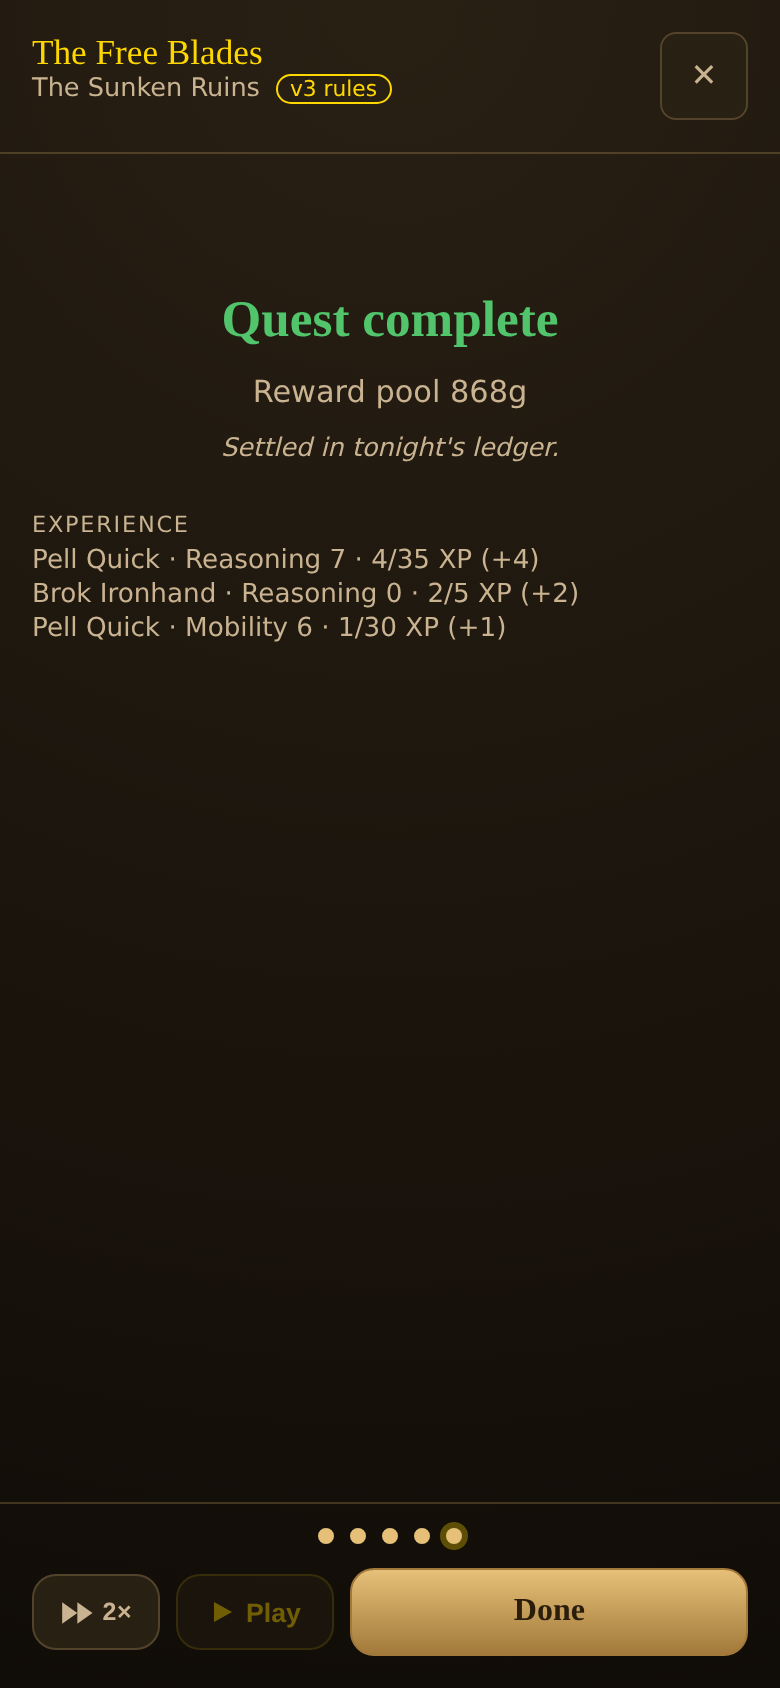
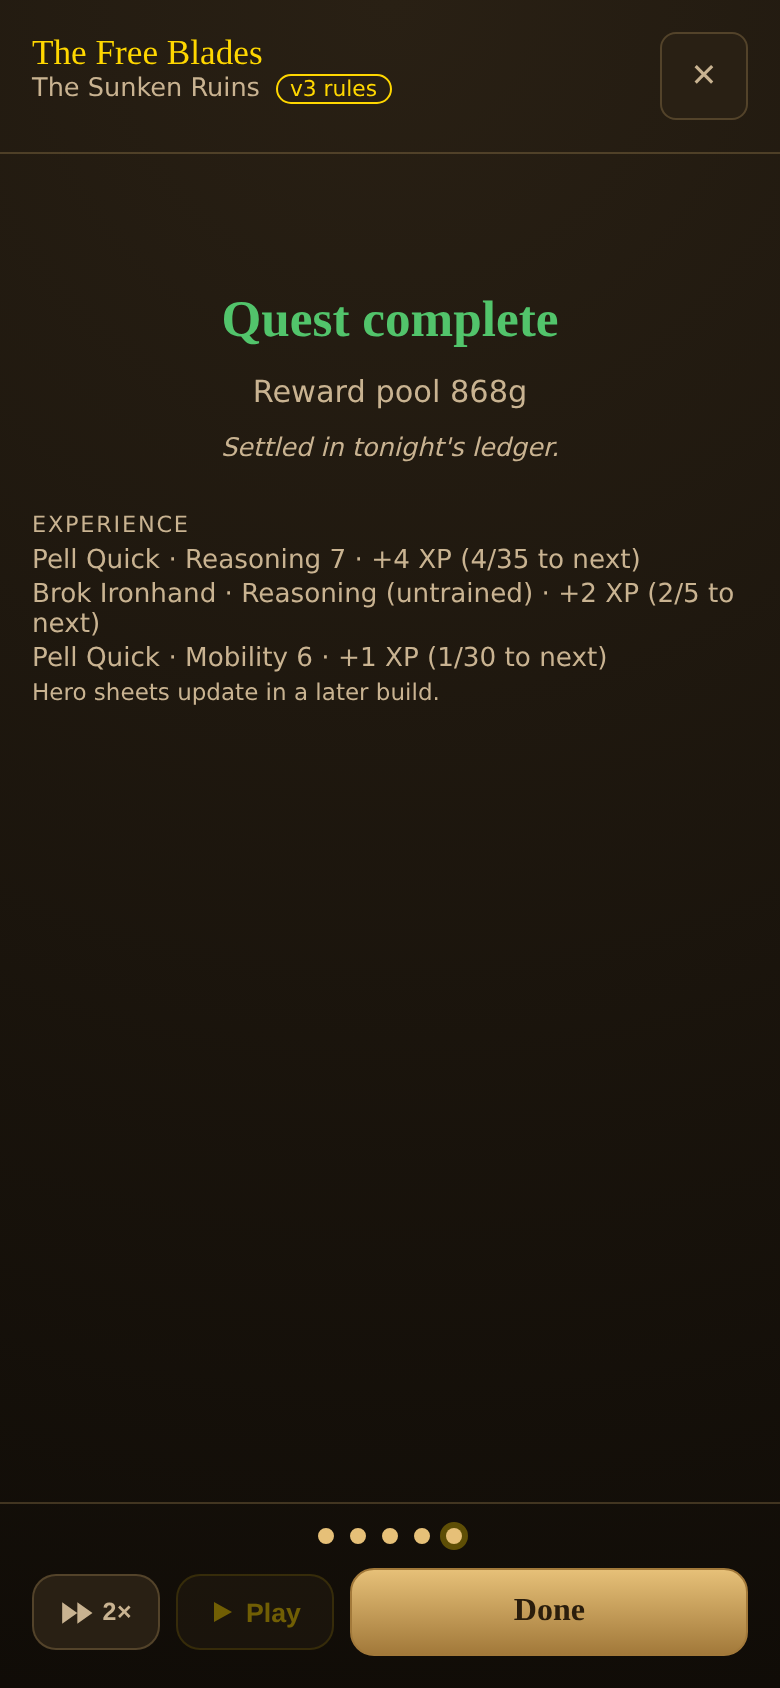
fix(wire): Review #2 folds for growth — boundary and cap-bank tests, plainer card, tighter doc
Claude-Session: https://claude.ai/code/session_015HBQiZMGSAdaJBR1EUQaxf

Changed region(s): [[0.4, 0.3081, 0.8923, 0.4313], [0.0308, 0.3389, 0.4, 0.4313]]

diff --git a/web/src/game/guild/wire/growthReport.ts b/web/src/game/guild/wire/growthReport.ts
@@ -89,15 +89,23 @@ export function renderGrowth(): string {
   const solved = contested.filter((d) => d.to90 === 0);
   const slow = contested.filter((d) => d.to90 !== 0);
   const label = (d: Drift) => `${d.quest.title} · ${SHORT[d.partyId]}`;
+  const attrGain = (id: string) => partyTotals(id, snapAt(careers.get(id)!, 100)).attrs - partyTotals(id, base).attrs;
+  const attrTotal = PARTY_DATA.reduce((t, p) => t + attrGain(p.id), 0);
   const verdict =
     `**Verdict:** ${solved.length} of ${contested.length} postable quest·party pairs are already at 90% success or better before any growth (the same as v1). ` +
     (slow.length === 0
-      ? "Nothing left to grow into."
+      ? "Nothing is left to grow into. "
       : `The rest (${slow.map((d) => `${label(d)}: ${pct(d.atSnap[0])} now, ${pct(d.atSnap[3])} after 100 quests`).join("; ")}) ` +
         (slow.every((d) => d.to90 !== null)
-          ? `reach 90% after ${slow.map((d) => d.to90).join(", ")} quests.`
-          : `do not reach 90% within ${MAX_QUESTS} quests: growth is slow against fixed difficulty.`)) +
-    " Harder quests (content progression) will be needed long before heroes feel stuck.";
+          ? `reach 90% after ${slow.map((d) => d.to90).join(", ")} quests. `
+          : `do not reach 90% within ${MAX_QUESTS} quests. `)) +
+    `Attributes gain ${attrTotal === 0 ? "no levels at all" : `only ${attrTotal} level${attrTotal === 1 ? "" : "s"}`} in 100 quests (20 XP per level, Success only).`;
+  const decision =
+    "**Decide:** raise the skill XP rates, or ship harder quests first, before building more growth UI? " +
+    "(Harder quests, content progression, are not in this slice.)";
+  // Only the pairs that move are worth a table row; the rest sit at 100% throughout.
+  const interesting = drifts.filter((d) => d.atSnap.some((x) => x < 1) || d.to90 !== 0);
+  const flat = drifts.length - interesting.length;
 
   const out: string[] = [];
   const push = (...l: string[]) => out.push(...l);
@@ -109,14 +117,16 @@ export function renderGrowth(): string {
     "",
     verdict,
     "",
+    decision,
+    "",
     "**What this means for a player:** after each quest the end-of-story card lists the experience the party earned",
-    "(\"Reasoning 6 · 12/30 XP (+2)\", \"Level up!\"). The Heroes screen still shows its old mock stats; a live",
+    "(\"Wren Ashdown · Reasoning 6 · +2 XP (12/30 to next)\", \"Level up!\"). The Heroes screen still shows its old mock stats; a live",
     "hero-sheet panel is a later slice. Production (v1) earns no experience.",
     "",
     "## How growth works",
     "",
     "- The hero who **led** an encounter gets skill XP (+1, +2 on Success or Triumph) and attribute XP (+1 on Success or Triumph).",
-    "- Every other party member gets +1 skill XP on a Success or Triumph, no attribute XP, so nobody stalls.",
+    "- Every other party member gets +1 XP in the skill that encounter tested on a Success or Triumph, no attribute XP, so nobody stalls.",
     "- Skill level n costs 5n XP, attribute level n costs 20n XP (PR #46's rates). **Attributes will not visibly move in a playtest.**",
     "- **Combat beats train nothing** (combat is a temporary rule), so combat-heavy quests are growth-neutral.",
     "- Difficulty is absolute: a stronger hero simply succeeds more often.",
@@ -136,18 +146,16 @@ export function renderGrowth(): string {
       }),
     ),
     "",
-    `Attribute levels gained after 100 quests (whole party): ` +
-      PARTY_DATA.map((p) => `${SHORT[p.id]} +${partyTotals(p.id, snapAt(careers.get(p.id)!, 100)).attrs - partyTotals(p.id, base).attrs}`).join(", ") +
-      ".",
-    "",
     "## B. Difficulty drift",
     "",
     "P(success) of each quest with the party's heroes as grown after N quests (400 seeded runs each).",
     "",
     table(
       ["Quest · party", "0", "20", "50", "100"],
-      drifts.map((d) => [`${d.quest.title} · ${SHORT[d.partyId]}`, ...d.atSnap.map(pct)]),
+      interesting.map((d) => [`${d.quest.title} · ${SHORT[d.partyId]}`, ...d.atSnap.map(pct)]),
     ),
+    "",
+    `The other ${flat} quest·party pairs are at 100% throughout.`,
     "",
     "## C. Quests until 90% success",
     "",
@@ -155,13 +163,8 @@ export function renderGrowth(): string {
     "",
     table(
       ["Quest · party", "Quests to 90%"],
-      drifts.map((d) => [`${d.quest.title} · ${SHORT[d.partyId]}`, d.to90 === null ? `over ${MAX_QUESTS}` : d.to90 === 0 ? "already" : d.to90]),
+      interesting.map((d) => [`${d.quest.title} · ${SHORT[d.partyId]}`, d.to90 === null ? `over ${MAX_QUESTS}` : d.to90 === 0 ? "already" : d.to90]),
     ),
-    "",
-    "### Open questions (for Stefan)",
-    "",
-    "- Is that the right amount of play before a quest feels solved, or should XP rates change?",
-    "- Harder quests (content progression) are not in this slice.",
     "",
   );
   return out.join("\n");

diff --git a/web/src/game/guild/wire/growth.test.ts b/web/src/game/guild/wire/growth.test.ts
@@ -12,6 +12,7 @@ import { SKILL_MAX } from "../content/skills";
 import type { ResultId } from "../content/ladder";
 import type { AdventureLog, Beat, HeroProgressState } from "../types";
 import { renderGrowth } from "./growthReport";
+import { skillXpToNext } from "../resolve/growth";
 import { awardGrowth, heroStatsFrom, initialHeroes, normalizeHeroes, validHeroProgress } from "./progress";
 import { questStats } from "./harness";
 
@@ -160,6 +161,14 @@ describe("normalizeHeroes / validHeroProgress", () => {
     expect(mk((p) => (p.skills.force = 2.5))).toBe(false);
     expect(mk((p) => (p.xp.skills.force = -1))).toBe(false);
     expect(mk((p) => (p.xp.skills.force = 9999))).toBe(false); // bank beyond the next level's cost
+    expect(mk((p) => (p.xp.skills.force = skillXpToNext(p.skills.force)))).toBe(false); // a bank EQUAL to the cost has already levelled
+    expect(mk((p) => (p.xp.skills.force = null as never))).toBe(false); // JSON turns NaN into null
+    expect(mk((p) => (p.xp.attrs.mind = Number.NaN))).toBe(false);
+    // At the caps the bank is always 0 (XP there is discarded): anything above is corrupt.
+    expect(mk((p) => ((p.skills.force = SKILL_MAX), (p.xp.skills.force = 3)))).toBe(false);
+    expect(mk((p) => ((p.attrs.mind = ATTR_MAX), (p.xp.attrs.mind = 3)))).toBe(false);
+    expect(mk((p) => ((p.skills.force = SKILL_MAX), (p.xp.skills.force = 0)))).toBe(true);
+    expect(mk((p) => ((p.attrs.mind = ATTR_MAX), (p.xp.attrs.mind = 0)))).toBe(true);
     expect(mk((p) => delete (p.skills as Record<string, number>).force)).toBe(false);
     expect(validHeroProgress(null)).toBe(false);
   });
@@ -268,6 +277,43 @@ describe("growth through the real clock", () => {
   });
 });
 
+describe("module boundary: only wire/ reaches resolve/", () => {
+  it("no source file outside game/guild/wire/ and game/guild/resolve/ imports a resolve/ module", () => {
+    const root = fileURLToPath(new URL("../../../", import.meta.url));
+    const offenders: string[] = [];
+    const walk = (dir: string) => {
+      for (const name of readdirSync(dir)) {
+        const full = dir + name;
+        if (statSync(full).isDirectory()) walk(full + "/");
+        else if (/\.(ts|tsx)$/.test(name) && !/\.test\./.test(name) && !/\.cli\./.test(name)) {
+          const rel = full.slice(root.length);
+          if (rel.startsWith("game/guild/wire/") || rel.startsWith("game/guild/resolve/")) continue;
+          if (/from\s+['"][^'"]*\/resolve(\/[^'"]*)?['"]/.test(readFileSync(full, "utf8"))) offenders.push(rel);
+        }
+      }
+    };
+    walk(root + "game/");
+    walk(root + "ui/");
+    expect(offenders).toEqual([]);
+  });
+});
+
+describe("determinism across a save boundary", () => {
+  it("replaying the returning step from a JSON-round-tripped state reproduces the heroes and the sealed log byte for byte", () => {
+    setEngine("v3");
+    let s = createInitialState(1);
+    let prev = clone(s);
+    for (let i = 0; i < 800; i++) {
+      prev = clone(s);
+      s = step(s);
+      if (s.mail.some((m) => m.kind === "outcome" && m.log?.growth)) break;
+    }
+    const replay = step(clone(prev));
+    expect(JSON.stringify(replay.heroes)).toBe(JSON.stringify(s.heroes));
+    expect(JSON.stringify(replay.mail)).toBe(JSON.stringify(s.mail));
+  });
+});
+
 describe("a sealed log's growth stays small", () => {
   it("four growth lines serialise to well under 1 KB", () => {
     const out = awardGrowth(initialHeroes(), "iron-vigil", logOf([beat("reasoning", "wren", "success"), beat("nature", "wren", "success"), beat("mobility", "wren", "success"), beat("fortitude", "ysolt", "success")]));
@@ -294,7 +340,9 @@ describe("nothing outside the story card reads sealed growth or live heroes", ()
         else if (/\.(ts|tsx)$/.test(name) && !/\.test\./.test(name)) {
           const rel = full.slice(root.length);
           if (rel.startsWith("game/guild/wire/") || allowed.includes(rel)) continue;
-          if (/\.(heroes|growth)\b/.test(readFileSync(full, "utf8"))) offenders.push(rel);
+          const src = readFileSync(full, "utf8");
+          // property reads, bracket reads and destructuring
+          if (/\.(heroes|growth)\b|\[["'](heroes|growth)["']\]|\{[^}]*\b(heroes|growth)\b[^}]*\}\s*=/.test(src)) offenders.push(rel);
         }
       }
     };

diff --git a/web/src/game/guild/wire/progress.ts b/web/src/game/guild/wire/progress.ts
@@ -14,7 +14,7 @@
 
 import { ATTR_IDS, ATTR_MAX, type AttrId } from "../content/attributes";
 import { SKILL_IDS, SKILL_MAX, SKILL_ATTR, type SkillId } from "../content/skills";
-import { applySupport, applyUse, attrXpToNext, emptyProgress, isSuccess, skillXpToNext, type HeroProgress } from "../resolve/growth";
+import { applySupport, applyUse, attrXpToNext, emptyProgress, isSuccess, skillXpToNext } from "../resolve/growth";
 import { HERO_BY_ID, HERO_DATA, PARTY_BY_ID } from "../roster";
 import type { AdventureLog, GrowthLine, HeroProgressState, HeroStatsMap } from "../types";
 
@@ -35,7 +35,8 @@ export function heroStatsFrom(heroes: Record<string, HeroProgressState>): HeroSt
   const out: HeroStatsMap = {};
   for (const h of HERO_DATA) {
     const p = heroes[h.id];
-    out[h.id] = p ? { attrs: { ...p.attrs }, skills: { ...p.skills }, combat: h.v3.combat } : h.v3;
+    // A hero missing from `heroes` falls back to a COPY of the roster stats (never the shared object).
+    out[h.id] = p ? { attrs: { ...p.attrs }, skills: { ...p.skills }, combat: h.v3.combat } : { attrs: { ...h.v3.attrs }, skills: { ...h.v3.skills }, combat: h.v3.combat };
   }
   return out;
 }
@@ -52,6 +53,7 @@ export function validHeroProgress(p: unknown): p is HeroProgressState {
   if (!q.attrs || !q.skills || !q.xp || !q.xp.attrs || !q.xp.skills) return false;
   for (const a of ATTR_IDS) {
     if (!isLevel(q.attrs[a], ATTR_MAX)) return false;
+    // At the cap the bank is always 0 (applyUse discards XP there), so a bound of 1 admits only 0.
     if (!isBank(q.xp.attrs[a], q.attrs[a] >= ATTR_MAX ? 1 : attrXpToNext(q.attrs[a]))) return false;
   }
   for (const s of SKILL_IDS) {
@@ -92,12 +94,12 @@ export function awardGrowth(heroes: Record<string, HeroProgressState>, partyId: 
   if (log.growth) return { heroes, lines: log.growth };
   const party = PARTY_BY_ID[partyId];
   const next = cloneHeroes(heroes);
-  type Acc = { gained: number; levelUp: boolean; attrUp: boolean };
-  const acc = new Map<string, Acc>(); // `${heroId}|${skill}`
+  type Acc = { heroId: string; skill: SkillId; gained: number; levelUp: boolean; attrUp: boolean };
+  const acc = new Map<string, Acc>(); // one entry per hero + skill, in first-touched order
   const touch = (heroId: string, skill: SkillId): Acc => {
-    const k = `${heroId}|${skill}`;
+    const k = `${heroId}\u0000${skill}`;
     let a = acc.get(k);
-    if (!a) acc.set(k, (a = { gained: 0, levelUp: false, attrUp: false }));
+    if (!a) acc.set(k, (a = { heroId, skill, gained: 0, levelUp: false, attrUp: false }));
     return a;
   };
 
@@ -108,17 +110,17 @@ export function awardGrowth(heroes: Record<string, HeroProgressState>, partyId: 
     const success = isSuccess(c.result);
     for (const id of party.memberIds) {
       const atCap = next[id].skills[skill] >= SKILL_MAX; // XP at the cap is discarded, so it is not "gained"
-      const prog = next[id] as unknown as HeroProgress;
+      const prog = next[id];
       if (id === c.leadId) {
         const out = applyUse(prog, skill, c.result);
-        next[id] = out.progress as unknown as HeroProgressState;
+        next[id] = out.progress;
         const a = touch(id, skill);
         if (!atCap) a.gained += success ? 2 : 1;
         if (out.skillUp > 0) a.levelUp = true;
         if (out.attrUp > 0) a.attrUp = true;
       } else {
         const out = applySupport(prog, skill, c.result);
-        next[id] = out.progress as unknown as HeroProgressState;
+        next[id] = out.progress;
         if (success) {
           const a = touch(id, skill);
           if (!atCap) a.gained += 1;
@@ -130,10 +132,9 @@ export function awardGrowth(heroes: Record<string, HeroProgressState>, partyId: 
 
   const lines: GrowthLine[] = [];
   const order = (id: string) => party.memberIds.indexOf(id);
-  for (const [k, a] of acc) {
+  for (const a of acc.values()) {
     if (a.gained <= 0 && !a.levelUp && !a.attrUp) continue;
-    const [heroId, skillRaw] = k.split("|");
-    const skill = skillRaw as SkillId;
+    const { heroId, skill } = a;
     const p = next[heroId];
     const level = p.skills[skill];
     const attr: AttrId = SKILL_ATTR[skill];

diff --git a/web/src/ui/report/storyText.ts b/web/src/ui/report/storyText.ts
@@ -129,15 +129,18 @@ export interface GrowthRow {
 
 /** Experience rows for the outcome card: level-ups first and highlighted, then by XP
  * gained (the order the sim already sorted them), at most `max` rows plus a count of
- * the rest. A line shows the level and the bank toward the next one so progress is
- * visible between level-ups ("Reasoning 6 · 12/30 XP (+2)"). */
+ * the rest. A row shows the gain and the bank toward the next level so progress is
+ * visible between level-ups ("Wren Ashdown · Reasoning 6 · +2 XP (12/30 to next)"). */
 export function formatGrowth(lines: readonly GrowthLine[] | undefined, max = 4): { rows: GrowthRow[]; more: number } {
   if (!lines || lines.length === 0) return { rows: [], more: 0 };
   const rows: GrowthRow[] = lines.map((l) => {
+    // A first level is a milestone ("learned"), not a number.
+    if (l.levelUp && l.level === 1) return { text: `${l.name} learned ${title(l.skill)}`, levelUp: true };
     if (l.levelUp) return { text: `Level up! ${l.name} · ${title(l.skill)} ${l.level}`, levelUp: true };
     if (l.attrUp && l.attr && l.xpGained === 0) return { text: `${l.name} · ${title(l.attr)} ${l.attrLevel} (attribute up)`, levelUp: true };
-    const bank = l.cost === null ? "max" : `${l.xp}/${l.cost} XP`;
-    return { text: `${l.name} · ${title(l.skill)} ${l.level} · ${bank} (+${l.xpGained})`, levelUp: false };
+    const skill = l.level === 0 ? `${title(l.skill)} (untrained)` : `${title(l.skill)} ${l.level}`;
+    const next = l.cost === null ? "max" : `${l.xp}/${l.cost} to next`;
+    return { text: `${l.name} · ${skill} · +${l.xpGained} XP (${next})`, levelUp: false };
   });
   return { rows: rows.slice(0, max), more: Math.max(0, rows.length - max) };
 }

diff --git a/web/src/ui/report/storyText.test.ts b/web/src/ui/report/storyText.test.ts
@@ -129,10 +129,14 @@ describe("effectNote for v3 Insufficient: short of the requirement is never read
 
 describe("formatGrowth: the outcome card's Experience rows", () => {
   const line = (over: Partial<GrowthLine>): GrowthLine => ({ heroId: "wren", name: "Wren Ashdown", skill: "reasoning", xpGained: 2, level: 6, xp: 12, cost: 30, levelUp: false, ...over });
-  it("shows level, bank toward the next level and the gain; level-ups read as such", () => {
-    const { rows } = formatGrowth([line({}), line({ skill: "nature", levelUp: true, level: 7, xp: 0, cost: 35 })]);
-    expect(rows[0]).toEqual({ text: "Wren Ashdown · Reasoning 6 · 12/30 XP (+2)", levelUp: false });
+  it("shows the gain and the bank toward the next level; level-ups read as such; a first level is 'learned'", () => {
+    const { rows } = formatGrowth([line({}), line({ skill: "nature", levelUp: true, level: 7, xp: 0, cost: 35 }), line({ skill: "influence", levelUp: true, level: 1, xp: 0, cost: 10 })]);
+    expect(rows[0]).toEqual({ text: "Wren Ashdown · Reasoning 6 · +2 XP (12/30 to next)", levelUp: false });
     expect(rows[1]).toEqual({ text: "Level up! Wren Ashdown · Nature 7", levelUp: true });
+    expect(rows[2]).toEqual({ text: "Wren Ashdown learned Influence", levelUp: true });
+  });
+  it("an untrained skill says so instead of 'Reasoning 0'", () => {
+    expect(formatGrowth([line({ level: 0, xp: 2, cost: 5 })]).rows[0].text).toBe("Wren Ashdown · Reasoning (untrained) · +2 XP (2/5 to next)");
   });
   it("caps at 4 rows with a '+n more' count; empty and missing give nothing", () => {
     const many = Array.from({ length: 7 }, (_, i) => line({ heroId: `h${i}` }));

diff --git a/web/src/ui/report/StoryStage.tsx b/web/src/ui/report/StoryStage.tsx
@@ -216,6 +216,8 @@ function GrowthBlock({ log }: { log: AdventureLog }) {
         ))}
       </ul>
       {more > 0 && <div className={styles.growthMore}>+{more} more</div>}
+      {/* The Heroes screen still shows its old stats (a live sheet is a later slice). */}
+      <div className={styles.growthMore}>Hero sheets update in a later build.</div>
     </div>
   );
 }

diff --git a/docs/resolution-growth.md b/docs/resolution-growth.md
@@ -3,16 +3,18 @@
 GENERATED by `npm run sim:growth` (web/src/game/guild/wire/growthReport.ts). Do not edit by hand;
 `wire/growth.test.ts` fails if this file drifts. Real `resolveQuest` + `awardGrowth` runs, v3 rules, fixed seeds.
 
-**Verdict:** 3 of 4 postable quest·party pairs are already at 90% success or better before any growth (the same as v1). The rest (The Sunken Ruins · Blades: 72% now, 82% after 100 quests) do not reach 90% within 300 quests: growth is slow against fixed difficulty. Harder quests (content progression) will be needed long before heroes feel stuck.
+**Verdict:** 3 of 4 postable quest·party pairs are already at 90% success or better before any growth (the same as v1). The rest (The Sunken Ruins · Blades: 72% now, 82% after 100 quests) do not reach 90% within 300 quests. Attributes gain no levels at all in 100 quests (20 XP per level, Success only).
+
+**Decide:** raise the skill XP rates, or ship harder quests first, before building more growth UI? (Harder quests, content progression, are not in this slice.)
 
 **What this means for a player:** after each quest the end-of-story card lists the experience the party earned
-("Reasoning 6 · 12/30 XP (+2)", "Level up!"). The Heroes screen still shows its old mock stats; a live
+("Wren Ashdown · Reasoning 6 · +2 XP (12/30 to next)", "Level up!"). The Heroes screen still shows its old mock stats; a live
 hero-sheet panel is a later slice. Production (v1) earns no experience.
 
 ## How growth works
 
 - The hero who **led** an encounter gets skill XP (+1, +2 on Success or Triumph) and attribute XP (+1 on Success or Triumph).
-- Every other party member gets +1 skill XP on a Success or Triumph, no attribute XP, so nobody stalls.
+- Every other party member gets +1 XP in the skill that encounter tested on a Success or Triumph, no attribute XP, so nobody stalls.
 - Skill level n costs 5n XP, attribute level n costs 20n XP (PR #46's rates). **Attributes will not visibly move in a playtest.**
 - **Combat beats train nothing** (combat is a temporary rule), so combat-heavy quests are growth-neutral.
 - Difficulty is absolute: a stronger hero simply succeeds more often.
@@ -28,24 +30,15 @@ Skill levels gained by the whole party (sum over members) after N quests, the Ro
 | Blades | quest 10 | +2 | +9 | +20 |
 | Mira | quest 6 | +4 | +7 | +11 |
 
-Attribute levels gained after 100 quests (whole party): Vigil +0, Blades +0, Mira +0.
-
 ## B. Difficulty drift
 
 P(success) of each quest with the party's heroes as grown after N quests (400 seeded runs each).
 
 | Quest · party | 0 | 20 | 50 | 100 |
 | --- | --- | --- | --- | --- |
-| Courier Escort · Vigil | 100% | 100% | 100% | 100% |
-| Courier Escort · Blades | 100% | 100% | 100% | 100% |
-| The Sunken Ruins · Vigil | 100% | 100% | 100% | 100% |
 | The Sunken Ruins · Blades | 72% | 72% | 77% | 82% |
-| Guard the Guild Hall · Vigil | 100% | 100% | 100% | 100% |
-| Guard the Guild Hall · Blades | 100% | 100% | 100% | 100% |
-| Guard the Guild Hall · Mira | 100% | 100% | 100% | 100% |
-| Help the City Watch · Vigil | 100% | 100% | 100% | 100% |
-| Help the City Watch · Blades | 100% | 100% | 100% | 100% |
-| Help the City Watch · Mira | 100% | 100% | 100% | 100% |
+
+The other 9 quest·party pairs are at 100% throughout.
 
 ## C. Quests until 90% success
 
@@ -53,18 +46,4 @@ The explicit threshold: how many quests (checked every 5) until the party succee
 
 | Quest · party | Quests to 90% |
 | --- | --- |
-| Courier Escort · Vigil | already |
-| Courier Escort · Blades | already |
-| The Sunken Ruins · Vigil | already |
 | The Sunken Ruins · Blades | over 300 |
-| Guard the Guild Hall · Vigil | already |
-| Guard the Guild Hall · Blades | already |
-| Guard the Guild Hall · Mira | already |
-| Help the City Watch · Vigil | already |
-| Help the City Watch · Blades | already |
-| Help the City Watch · Mira | already |
-
-### Open questions (for Stefan)
-
-- Is that the right amount of play before a quest feels solved, or should XP rates change?
-- Harder quests (content progression) are not in this slice.

diff --git a/PROGRESS.md b/PROGRESS.md
@@ -2,6 +2,27 @@
 
 Running log Claude Code appends to at each gate, so a phone-only Claude.ai chat can follow. Newest entries on top.
 
+## 2026-10-01 - Wire B: heroes grow from use (v3 engine), persisted — PR opened
+- Gate: PR (Review #2 cleared; `@codex review` posted)
+- Branch: `ccr-c145e2cc-3s42bn` -> PR into `dev` (restarted from `dev` after PR #45; first commit = #48
+  backfill). `dev` is the promotion branch for the next dev -> main PR, so production stays inert: v1 earns no XP.
+- Review #2 (4 personas on the DIFF): **2 blockers, both missing TESTS (no code defect), now added**: a boundary
+  test that nothing outside `wire/` imports `resolve/`; cap-level and corrupt-bank cases for `validHeroProgress`
+  (bank equal to the cost, null/NaN, a bank above 0 at the caps). Non-blockers folded: removed the two `as unknown
+  as` casts (the compiler now checks the structural match), `heroStatsFrom` copies its fallback, a comment on the
+  cap idiom, no string-split accumulator key; a stronger leak guard (destructuring and bracket reads); a
+  determinism test across a JSON save boundary; plainer Experience rows ("+2 XP (12/30 to next)"), a first skill
+  reads "learned", an untrained skill says so, and an in-card line "Hero sheets update in a later build."; the
+  growth doc now puts the decision beside the verdict, surfaces the attribute lag there, and tables only the pairs
+  that move. Accepted: Heroes screen mock stats (a later slice), `xpGained` counted in full on the quest that
+  reaches the cap (cosmetic).
+- Verified after the folds: `npx tsc -b` clean; `npm run test` 255 pass + 1 skipped (GOLDEN, calibration gate and
+  the other two generated-doc drift tests untouched and green); `vite build`; headless Chromium at 390px on both
+  bases (dev card with and without a level-up; an older save with no `heroes` loads on production and dev with
+  no Experience block); screenshots refreshed in `docs/screenshots/growth-dev-*.png`.
+- Open for Stefan (`docs/resolution-growth.md`): raise the XP rates, or ship harder quests first? (3 of 4
+  postable pairs are already at 90%+; the one hard pair barely moves; attributes gain no levels.)
+
 ## 2026-10-01 - Wire B: heroes grow from use (v3 engine), persisted — build done
 - Gate: build (Review #1 folded; heading into Review #2)
 - Branch: `ccr-c145e2cc-3s42bn` (restarted from `origin/dev` @ `ed800cb` after PR #45 merged; first commit =

diff --git a/docs/CHALLENGE_SYSTEM.md b/docs/CHALLENGE_SYSTEM.md
@@ -297,8 +297,8 @@ fresh hero reaches Skill 10 in ~140 uses, Skill 20 in ~600, Attr 7 in ~530 and A
 spreading 600 uses over three pillars yields three Skills at ~11 instead of one at 20.
 
 **Wired (2026-10-01, dev builds, `web/src/game/guild/wire/progress.ts`):** a returning party earns experience from its
-sealed log. The hero who **led** an encounter gets the rates above; every other member gets **+1 skill XP on a Success
-or Triumph and no Attribute XP** (so the best member does not pull away alone and nobody stalls). Combat beats train
+sealed log. The hero who **led** an encounter gets the rates above; every other member gets **+1 XP in the skill that encounter tested, on a Success
+or Triumph only, and no Attribute XP** (so the best member does not pull away alone and nobody stalls). Combat beats train
 nothing (the temporary Combat rule). Hero progress persists in the save without a version bump. Pace and how fast quests
 become solved: [`docs/resolution-growth.md`](./resolution-growth.md) (generated, tested).
 
